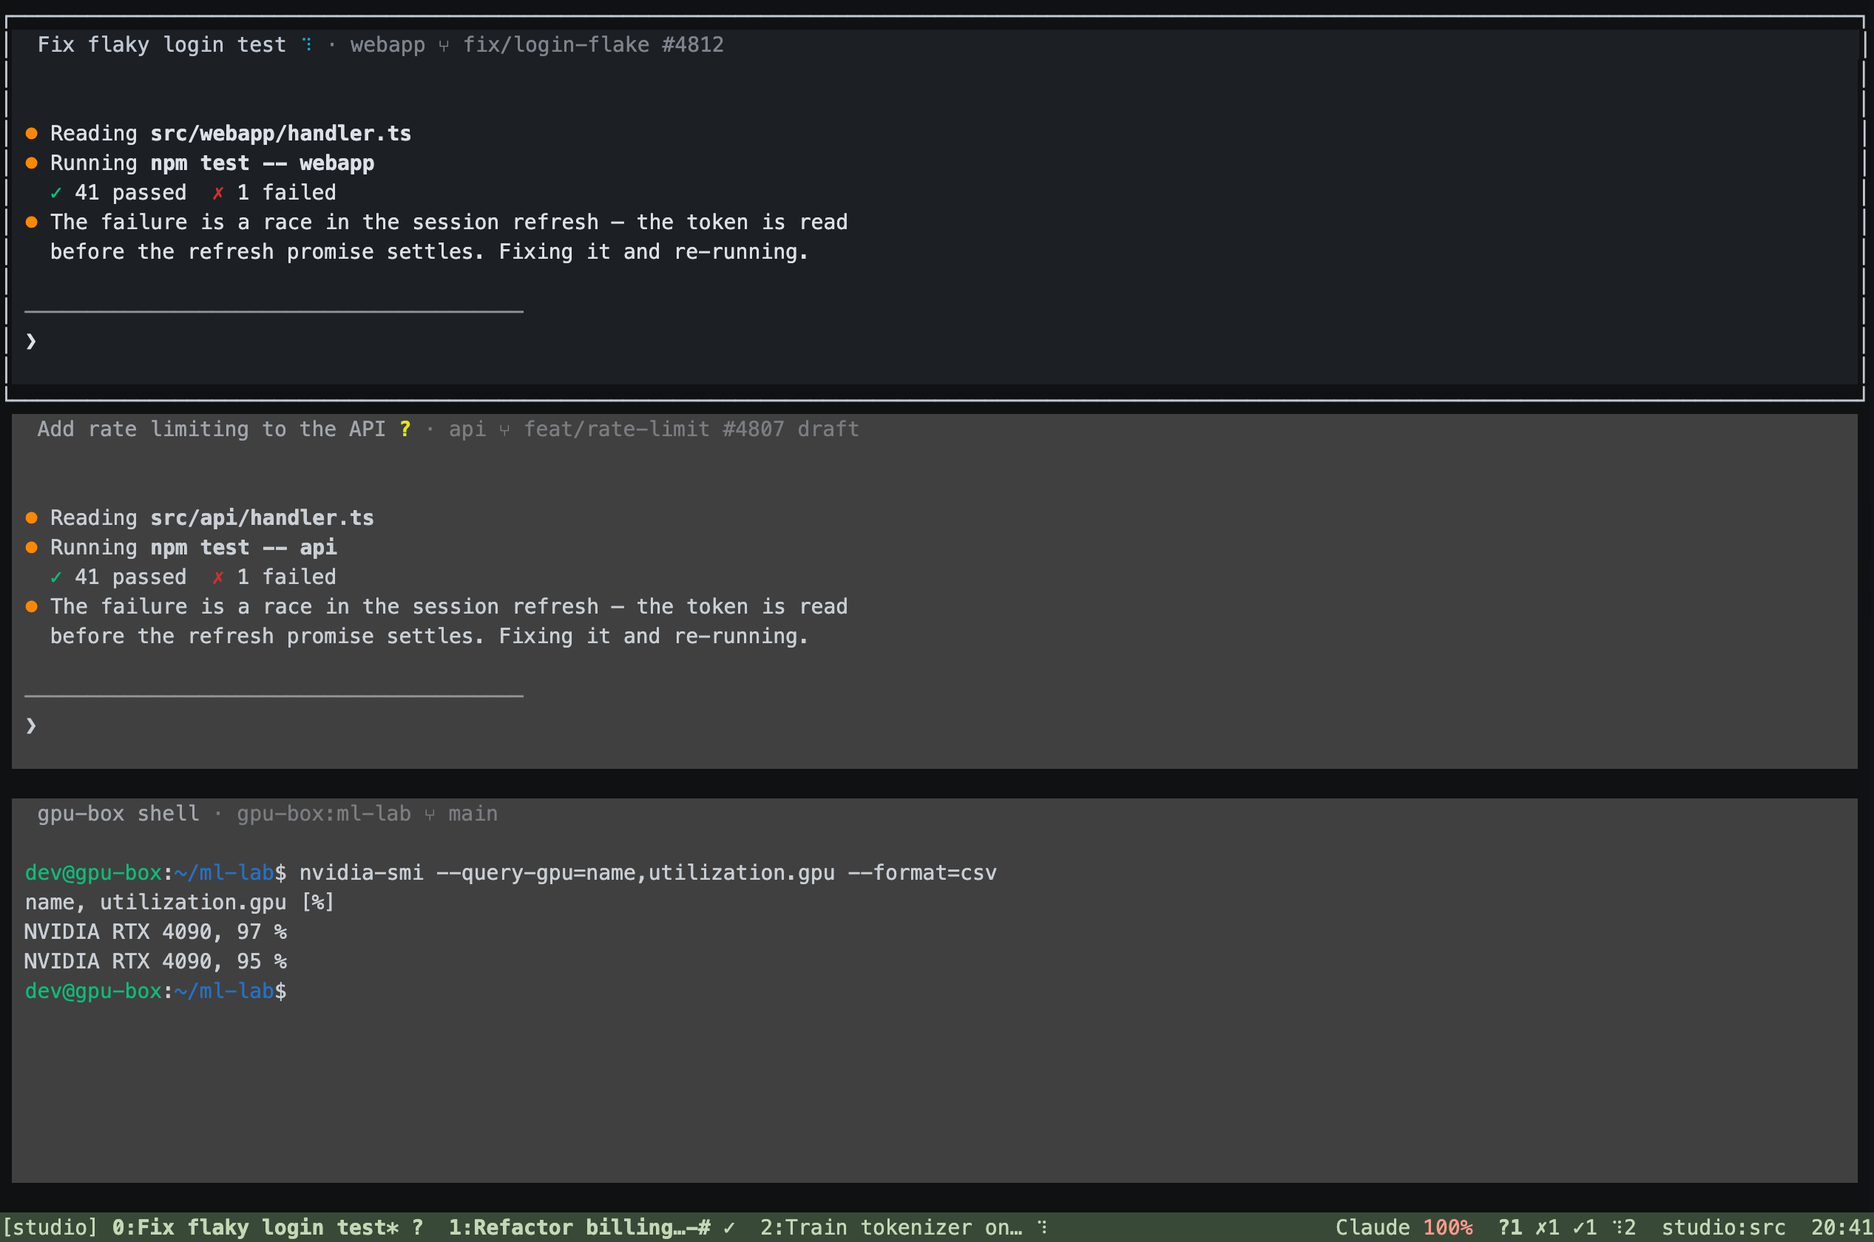
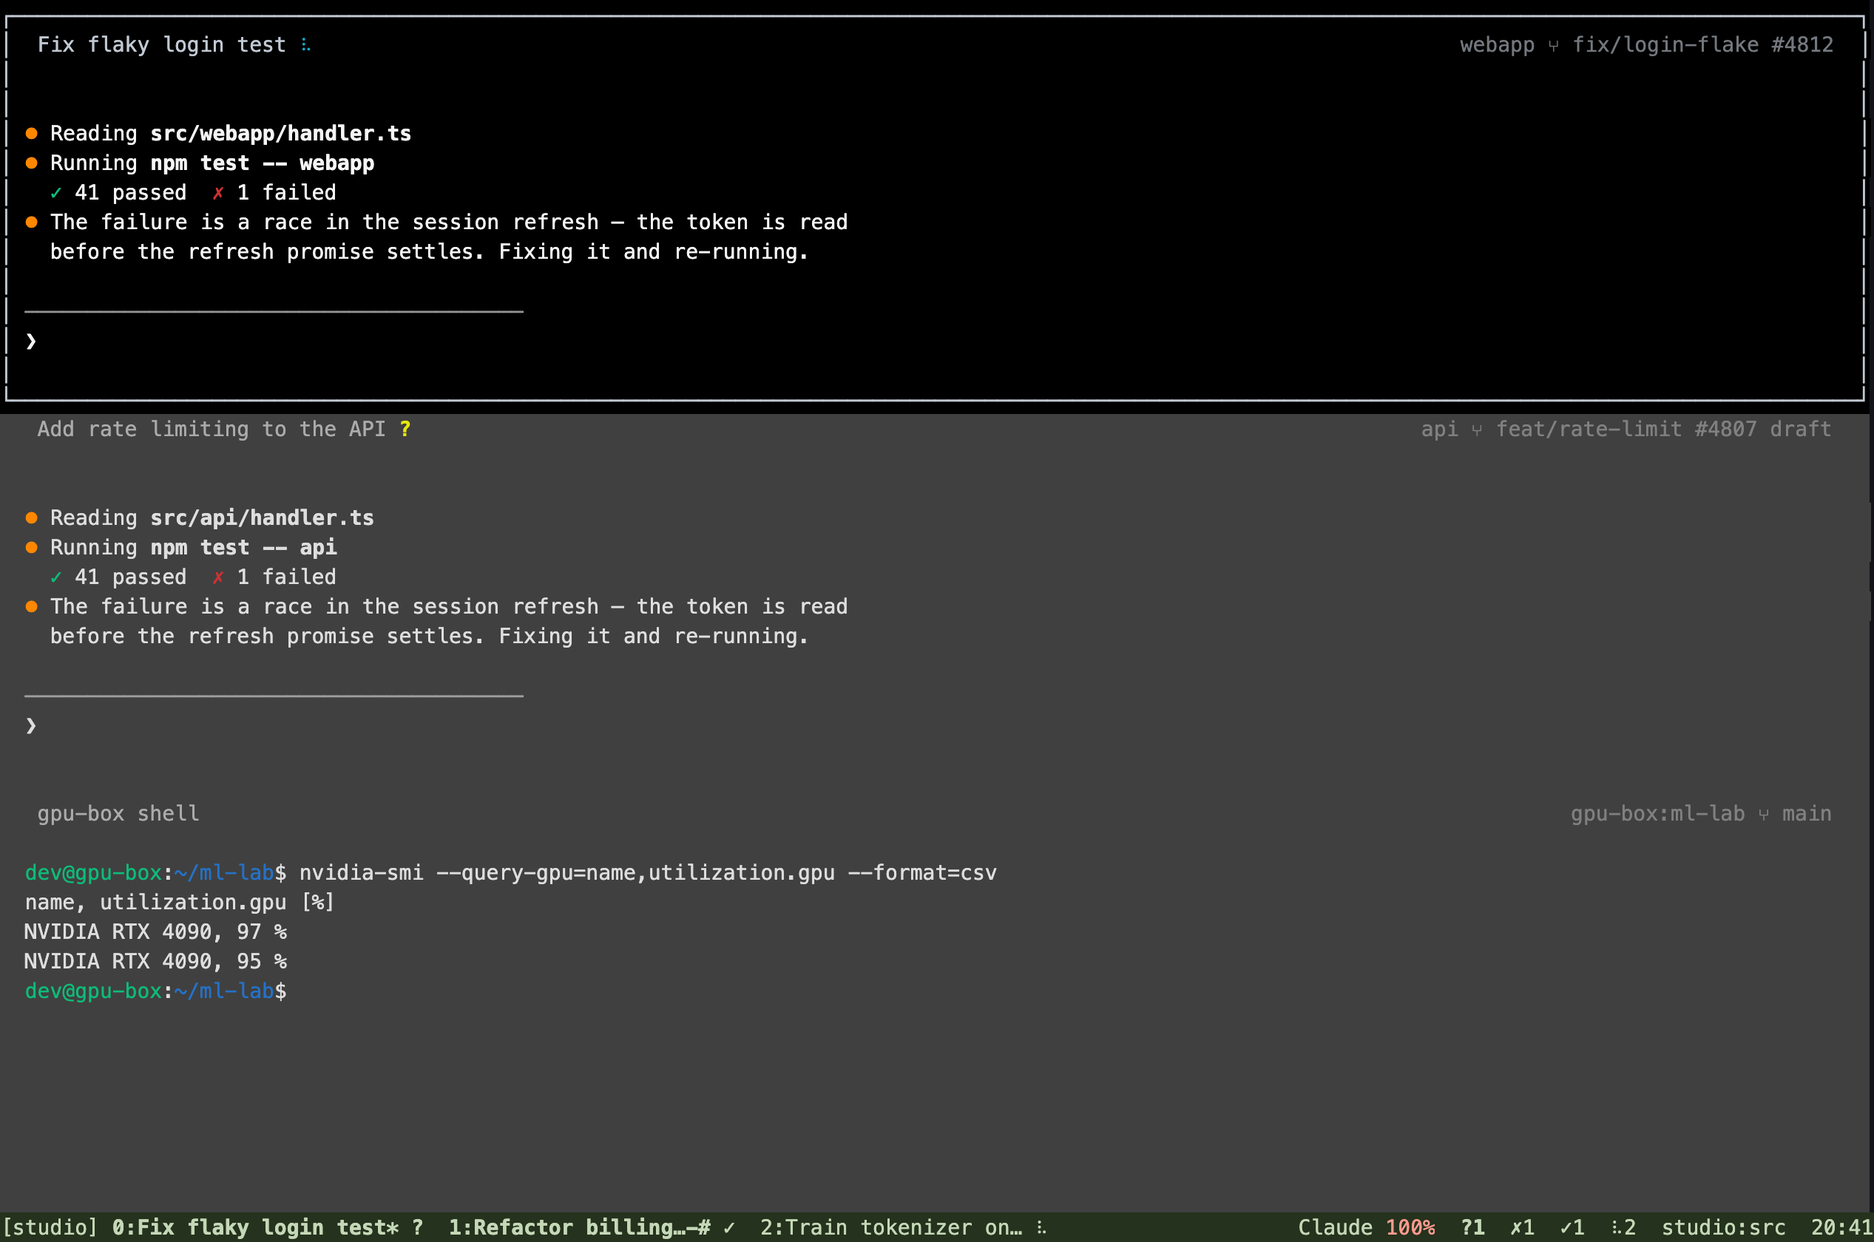
fix(hn): fill pane focus surfaces and simplify status details

diff --git a/tui/tests/pane-ui.py b/tui/tests/pane-ui.py
@@ -31,7 +31,7 @@ ENV.update(HOME=str(BASE), HN_TMPDIR=str(BASE), HN_SOCKET_NAME=PREFIX, PORT=str(
            TERM='xterm-256color', COLORTERM='truecolor', SHELL='/bin/sh', HARNESS_TUI_DESK='sync',
            HARNESS_TUI_NOTIFY='off', HN_DESKTOP='off', MOCK_DEMO='1', MOCK_RECONNECT='1', MOCK_USAGE='100')
 CONF = BASE / 'tmux.conf'
-CONF.write_text('set -g automatic-rename off\nset -g status-right "#{usage_high_mark}  #{fleet}  #{pane_machine}:#{b:pane_current_path}  20:41 "\n')
+CONF.write_text('set -g automatic-rename off\nset -g status-right "#{usage_high_mark}  #{s/ /  /:fleet}  #{pane_machine}:#{b:pane_current_path}  20:41 "\n')
 OUTPUT = Path(os.environ['HN_PANE_UI_OUTPUT']) if os.environ.get('HN_PANE_UI_OUTPUT') else None
 if OUTPUT:
     OUTPUT.mkdir(parents=True, exist_ok=True)
@@ -106,6 +106,18 @@ def background_at(x, y):
     return bg
 
 
+def background(hex_value):
+    raw = f'\x1b]11;{hex_value}\x07'.encode()
+    tmux('send-keys', '-H', '-t', 'test', *[f'{b:02x}' for b in raw])
+
+
+def pane_edge_background(pane, colour):
+    x, y, w, h = map(int, value('#{pane_left} #{pane_top} #{pane_width} #{pane_height}', pane).split())
+    points = ((x - 2, y - 3), (x + w + 1, y - 3), (x - 2, y + h + 1),
+              (x + w + 1, y + h + 1), (x - 1, y - 1), (x + w, y + h))
+    return all(background_at(col, row) == colour for col, row in points)
+
+
 def pane_background(pane):
     x, y, height = map(int, value('#{pane_left} #{pane_top} #{pane_height}', pane).split())
     return background_at(x, y + height - 2)
@@ -148,6 +160,8 @@ try:
     tmux('-f', '/dev/null', 'new-session', '-d', '-s', 'test', '-x', '150', '-y', '42', command)
     started = True
     wait(lambda: 'Fix flaky login test' in tmux('capture-pane', '-p', '-t', 'test'), 'demo panes')
+    background('#000000')
+    wait(lambda: 'bg=#000000' in hn('show', '-gwv', 'window-active-style'), 'black terminal background')
     hn('select-layout', 'even-horizontal')
     panes = hn('list-panes', '-F', '#{pane_id}').splitlines()
     assert len(panes) == 3
@@ -161,9 +175,12 @@ try:
     active_bg = hn('show', '-gwv', 'window-active-style').split('bg=')[1]
     inactive_bg = hn('show', '-gwv', 'window-style').split('bg=')[1]
     assert active_bg != inactive_bg
-    assert inactive_bg == '#404040'
+    assert active_bg == '#000000' and inactive_bg == '#404040'
     wait(lambda: pane_outline(first) and not pane_outline(second), 'thin outline only around the focused pane')
     wait(lambda: pane_background(first) == active_bg and pane_background(second) == inactive_bg, 'whole-pane focus contrast')
+    assert background_at(149, 0) == inactive_bg, 'gray backdrop includes outer padding'
+    wait(lambda: pane_edge_background(first, active_bg), 'focused background fills padding and border cells')
+    assert background_at(99, 20) == inactive_bg, 'gray backdrop includes the unfocused split gutter'
     tab = value(hn('show', '-gwv', 'window-status-current-format'))
     label = value('#{window_index}:#{window_short_name}')
     assert tab.startswith(label + '* '), (tab, label)
@@ -205,6 +222,7 @@ try:
     wait(lambda: value('#{pane_id}') == second, 'C-b Right with insets')
     wait(lambda: pane_background(second) == active_bg and pane_background(first) == inactive_bg, 'keyboard focus moves pane contrast')
     wait(lambda: pane_outline(second) and not pane_outline(first), 'keyboard focus moves the outline without stale borders')
+    wait(lambda: pane_edge_background(second, active_bg), 'focused border background follows keyboard selection')
     keys('C-b', 'Right')
     wait(lambda: value('#{pane_id}') == third, 'second C-b Right')
     keys('C-b', 'Right')
@@ -214,6 +232,11 @@ try:
     branch_context = value('#{pane_where}')
     assert '⑂ ' + value('#{pane_branch}') in branch_context, branch_context
     assert 'git:(' not in branch_context
+    wait(lambda: not pane_outline(first) and background_at(0, 0) == active_bg, 'zoomed pane has no border or gray surround')
+    assert background_at(0, 41) == normal_bg, 'status bar keeps its own color'
+    x, y, w = map(int, value('#{pane_left} #{pane_top} #{pane_width}', first).split())
+    wait(lambda: tmux('capture-pane', '-p', '-t', 'test').splitlines()[y - 2][x:x + w].rstrip().endswith(branch_context), 'branch and PR align to the right edge')
+    snapshot('panes-zoomed')
     keys('C-b', 'z')
     wait(lambda: value('#{window_zoomed_flag}') == '0', 'unzoom')
     assert value('#{window_layout}') == original
@@ -316,14 +339,12 @@ try:
     hn('set', '-g', 'status-position', 'bottom')
     hn('set', '-g', 'status', 'on')
     # OSC replies are metadata, not keystrokes. Surface defaults follow live light/dark changes.
-    def background(hex_value):
-        raw = f'\x1b]11;{hex_value}\x07'.encode()
-        tmux('send-keys', '-H', '-t', 'test', *[f'{b:02x}' for b in raw])
     layout_before_theme = value('#{window_layout}')
     before = len(api()['inputs'])
     background('#f7f7f7')
     wait(lambda: hn('show', '-gwv', 'window-active-style') == 'fg=#1a1a1a,bg=#f7f7f7', 'light surface defaults')
     wait(lambda: pane_background(first) == '#f7f7f7' and pane_background(second) == '#e5e5e5', 'light focus contrast')
+    wait(lambda: pane_edge_background(first, '#f7f7f7'), 'light surface continues through the focus border')
     light_status = hn('show', '-gv', 'status-style')
     assert value('#{window_layout}') == layout_before_theme
     snapshot('panes-light')
@@ -333,6 +354,7 @@ try:
     assert hn('show', '-gwv', 'window-style') == 'fg=red,bg=blue'
     assert hn('show', '-gwv', 'window-active-style') == 'default'
     wait(lambda: pane_background(first) == 'colour4' and pane_background(second) == 'colour4', 'custom backgrounds win on active and inactive panes')
+    wait(lambda: pane_edge_background(first, 'colour4'), 'custom pane background continues through the focus border')
     assert len(api()['inputs']) == before, 'terminal query replies reached an application'
     hn('set', '-gwu', 'window-style')
     assert hn('show', '-gwv', 'window-active-style').startswith('fg=#f5f5f5,')
@@ -350,6 +372,14 @@ try:
         wait(lambda: value('#{client_width} #{client_height}') == f'{width} {height}', 'terminal resize')
         assert value('#{window_panes}') == '3'
     print('PASS pane UI: compact and one-cell terminals, return to full size', flush=True)
+
+    single = hn('new-window', '-n', 'single', '-P', '-F', '#{pane_id}', '/bin/sh')
+    wait(lambda: value('#{pane_id}') == single and value('#{window_panes}') == '1', 'single-pane window')
+    wait(lambda: not pane_outline(single) and background_at(0, 0) == '#101010', 'single pane has no outline or gray surround')
+    snapshot('panes-single')
+    hn('kill-window')
+    wait(lambda: value('#{window_id}') == current, 'return from single-pane window')
+    print('PASS pane UI: full backdrop, right-aligned context and single-pane presentation', flush=True)
 finally:
     if started:
         if OUTPUT:

diff --git a/tui/src/options/mod.rs b/tui/src/options/mod.rs
@@ -92,17 +92,17 @@ pub fn defaults() -> &'static BTreeMap<String, String> {
         // Each pane's title row: the harness's name, then its state symbol, [watching — who
         // has it] when another window has the pane to type in, and its project and branch
         // where there is room. Git context stays here; the status bar keeps the location cue.
-        m.insert("pane-border-format".into(), " #{pane_title}#{?pane_agent_icon, #{pane_agent_mark},}#{?pane_watched, #[fg=yellow][watching#{?pane_watcher, — #{pane_watcher} has it,}]#[fg=default],}#{?pane_where, #[dim]· #{pane_where} #[nodim],}".into());
+        m.insert("pane-border-format".into(), " #{pane_title}#{?#{==:#{pane_agent_state},idle},,#{?pane_agent_icon, #{pane_agent_mark},}}#{?pane_watched, #[fg=yellow][watching#{?pane_watcher, — #{pane_watcher} has it,}]#[fg=default],}#{?pane_where,#[align=right] #[dim]#{pane_where} #[nodim],}".into());
         // Session and window navigation on the left; connection, quota, fleet, location and
         // clock on the right. A leading space keeps a full window list from running into it.
         m.insert("status-left".into(), "#{?client_prefix,#[bold],}[#{session_name}]#{?client_prefix, ›#[nobold],} ".into());
-        m.insert("status-right".into(), " #{?daemon_down,#[bold]daemon down#[nobold] ,}#{?usage_high,#{usage_high_mark} ,}#{?fleet,#{fleet} ,}#{?pane_watching,[watching] ,}#{?pane_machine,#{=/12/…:pane_machine},#{host_short}}#{?pane_current_path,:#{=/18/…:#{b:pane_current_path}},#{?pane_project,:#{=/18/…:pane_project},}} %H:%M".into());
+        m.insert("status-right".into(), "  #{?daemon_down,#[bold]daemon down#[nobold]  ,}#{?usage_high,#{usage_high_mark}  ,}#{?fleet,#{s/ /  /:fleet}  ,}#{?pane_watching,[watching]  ,}#{?pane_machine,#{=/12/…:pane_machine},#{host_short}}#{?pane_current_path,:#{=/18/…:#{b:pane_current_path}},#{?pane_project,:#{=/18/…:pane_project},}}  %H:%M".into());
         // Each window's most urgent harness at a glance (the symbol its pane titles show) and its
         // name in a few whole words (#{window_short_name}): a harness is named for its task.
         // Keep tmux's familiar current/previous markers beside the name, then any other
         // flags, then the harness state. The selected tab needs no filled badge.
         for name in ["window-status-format", "window-status-current-format"] {
-            m.insert(name.into(), "#I:#{window_short_name}#{?window_active,*,#{?window_last_flag,-,}}#{s/[*-]//:window_flags}#{?window_agent_icon, #{window_agent_icon},}".into());
+            m.insert(name.into(), "#I:#{window_short_name}#{?window_active,*,#{?window_last_flag,-,}}#{s/[*-]//:window_flags}#{?#{==:#{window_agent_state},idle},,#{?window_agent_icon, #{window_agent_icon},}}".into());
         }
         // Unread activity and bells already carry #/! markers. Keep a continuous status
         // background and emphasize text instead of introducing inverted tab badges.

diff --git a/tui/src/ui.rs b/tui/src/ui.rs
@@ -251,7 +251,9 @@ fn window(buf: &mut Buffer, app: &mut App, body: Rect) -> Option<Position> {
         let window = if active { (a.fg.or(w.fg), a.bg.or(w.bg)) } else { (w.fg, w.bg) };
         if surfaces {
             let f = crate::pane_frame::frame(*rect, app.window_area(app.tab()), app.pane_status(app.tab()));
-            buf.set_style(f.surface, Style::default().fg(window.0.unwrap_or(Color::Reset)).bg(window.1.unwrap_or(Color::Reset)));
+            // A lone or zoomed pane needs no focus treatment, including in its outer space.
+            let surface = if rects.len() == 1 { body } else { f.surface };
+            buf.set_style(surface, Style::default().fg(window.0.unwrap_or(Color::Reset)).bg(window.1.unwrap_or(Color::Reset)));
         }
         // choose-tree's tree, over the pane.
         if app.panes.get(id).map(|p| p.tree_top()).unwrap_or(false) {
@@ -287,10 +289,14 @@ fn pane_chrome(buf: &mut Buffer, app: &App) {
         let f = crate::pane_frame::frame(*rect, canvas, app.pane_status(app.tab()));
         let active = Some(*id) == app.focused();
         let style = app.style_of(if active { "pane-active-border-style" } else { "pane-border-style" }, app.active, Some(*id));
-        if let Some(outline) = f.outline.filter(|_| active) {
+        if let Some(outline) = f.outline.filter(|_| active && app.rects.len() > 1) {
             let lines = app.options.get("pane-border-lines", &app.tab().id, Some(*id)).unwrap_or_default();
             let (tl, tr, bl, br, hz, vt, _, _) = box_set(&lines);
-            let border = style.bg(theme::pane_palette().canvas);
+            // The thin outline is drawn over the pane's own background, so the canvas
+            // cannot leave a gray band between the content and the border glyphs.
+            let a = app.style_of("window-active-style", app.active, Some(*id));
+            let w = app.style_of("window-style", app.active, Some(*id));
+            let border = style.bg(a.bg.or(w.bg).unwrap_or(Color::Reset));
             let put = |buf: &mut Buffer, x, y, glyph| {
                 if let Some(cell) = buf.cell_mut((x, y)) { cell.set_symbol(glyph).set_style(border); }
             };

diff --git a/tui/src/theme.rs b/tui/src/theme.rs
@@ -447,10 +447,12 @@ fn pane_palette_for(native: Option<(Color, Color)>) -> PanePalette {
         Color::Rgb(c(ar, br), c(ag, bg), c(ab, bb))
     };
     let green = if light { Color::Rgb(58, 102, 48) } else { Color::Rgb(133, 181, 105) };
+    let inactive_surface = if light { mix(bg, foreground, 8) } else { Color::Rgb(64, 64, 64) };
     PanePalette {
-        canvas: if light { mix(bg, foreground, 14) } else { mix(bg, Color::Rgb(0, 0, 0), 45) },
+        // Inactive panes, gutters and outer space form one continuous backdrop.
+        canvas: inactive_surface,
         surface: bg,
-        inactive_surface: if light { mix(bg, foreground, 8) } else { Color::Rgb(64, 64, 64) },
+        inactive_surface,
         foreground, inactive_foreground: mix(foreground, bg, 9),
         muted: mix(foreground, bg, 30),
         header: if light { mix(bg, foreground, 12) } else { Color::Rgb(64, 64, 64) },
@@ -1273,7 +1275,7 @@ mod palette_tests {
                          (Color::Rgb(247, 247, 247), Color::Rgb(26, 26, 26))] {
             let p = super::pane_palette_for(Some((bg, fg)));
             assert_ne!(p.surface, p.inactive_surface);
-            assert_ne!(p.inactive_surface, p.canvas);
+            assert_eq!(p.inactive_surface, p.canvas);
             assert_eq!(p.surface, bg);
             assert_ne!(p.header, p.active_header);
             assert_eq!(p.foreground, fg);

diff --git a/docs/research/2026-09-29-hn-pane-ui.md b/docs/research/2026-09-29-hn-pane-ui.md
@@ -3,10 +3,11 @@
 hn now presents terminal panes as quiet surfaces with space between them. Each pane has
 an integrated title, a thin outline around the focused pane, and inset content. The status line stays
 at the bottom in muted green, with tabs ordered `number:name* status`. Pane headers put the
-name before the state too: `hn ⋮ · project ⑂ branch`. Quota text is compact: `Claude 100%`,
-with amber or red only on the percentage. The branch appears only in pane headers; the
-bottom right keeps the familiar `machine:folder` location cue. Working and waiting
-indicators remain visible. Attention markers, prefix cues, inbox rows, connection notices, preview counters
+name before the state too: `hn ⋮` on the left, with `project ⑂ branch #123` aligned to the
+right. Quota text is compact: `Claude 100%`, with amber or red only on the percentage. The branch appears only in pane headers; the
+bottom right keeps the familiar `machine:folder` location cue. Status-bar groups have two spaces
+between them. Working and waiting indicators remain visible; idle dots are hidden in tabs and
+pane headers. Attention markers, prefix cues, inbox rows, connection notices, preview counters
 and marked tree rows use text, symbols and emphasis instead of inverted badges. Cursor and
 selection highlights, explicit user styles and program ANSI remain supported. Unread and bell
 tabs keep their status symbols with bold text. The status bar has a continuous background;
@@ -38,11 +39,15 @@ At normal sizes there is a one-cell gap around the pane surfaces and between adj
 one column of content padding on each side, and vertical padding where space permits. Small
 panes automatically give these cells back to the program. A one-cell terminal remains responsive
 and survives resizing.
-The focused pane keeps the terminal's native background and full text contrast. Other panes
+The focused pane keeps the terminal's native background and full text contrast, including
+padding and the cells behind its thin border. A black terminal stays black right to the outline. Other panes
 use `rgb(64, 64, 64)` surfaces in dark terminals, with softer text so focus reads across the
-whole pane. Light terminals retain their light surface counterpart. The focused pane has a thin
+whole pane. The backdrop also fills outer padding and gaps, stopping at the status bar.
+Light terminals retain their light surface counterpart. A lone or zoomed pane uses its own
+background throughout, without a focus outline. In a split layout, the focused pane has a thin
 outline in the existing gutter cells, which follows keyboard or mouse focus without shrinking
-program content or changing its mouse coordinates. Compact panes keep their usable cells. Surface colors follow the terminal's native light/dark theme and update when it changes. The
+program content or changing its mouse coordinates. Compact panes keep their usable cells.
+Surface colors follow the terminal's native light/dark theme and update when it changes. The
 daemon receives the surface colors so its programs agree with their surrounding padding.
 Program ANSI foregrounds, backgrounds and attributes remain intact; only default colors inherit
 the pane surface palette. Explicit user styles and title formats still override the defaults.
@@ -61,7 +66,8 @@ exercises the running application with actual keys and SGR mouse input:
 - All seven layouts and eight position targets with top, bottom and disabled pane titles.
 - Identical split structure across appearances, including percentage splits on both axes.
 - Application mouse coordinates after padding and after adding two status rows at the top.
-- Whole-pane focus contrast through keyboard and mouse selection, and name-before-status tabs.
+- Whole-pane focus contrast through keyboard and mouse selection, including gutters and outer padding.
+- Borderless single and zoomed panes, right-aligned branch context, and hidden idle indicators.
 - Live light/dark theme changes, custom style overrides in active and inactive panes, and reported option defaults.
 - Explicit program foreground/background colors; 80x24, 24x8, 6x4 and 1x1 terminals.
 

diff --git a/tui/README.md b/tui/README.md
@@ -72,8 +72,11 @@ Splits, `resize-pane`, the seven layouts, `swap-pane`, `rotate-window`, `join-pa
 and `select-pane` are tmux 3.5a's own arithmetic (layout.c, window.c): the same split sizes, the same
 pane numbers and the same active pane after each. hn draws these layouts as pane surfaces
 with one-cell gaps, inset terminal content and a thin outline around the focused pane. The
-surfaces follow the terminal's light/dark theme: the focused pane keeps full contrast;
-inactive dark panes use `rgb(64, 64, 64)` with softer text. Light terminals keep a light counterpart.
+surfaces follow the terminal's light/dark theme: the focused pane keeps full contrast and
+its background extends through the padding to the thin border;
+inactive dark panes use `rgb(64, 64, 64)` with softer text. This backdrop fills the padding
+and gaps up to the status bar. A lone or zoomed pane has no focus outline or gray surround.
+Light terminals keep a light counterpart.
 Explicit program colors and user styles stay intact. The muted green status bar has a continuous
 background, with tabs ordered `number:name* status` (previous window: `number:name- status`).
 Quota warnings read `Claude 100%`, with amber or red only on the percentage. Padding
@@ -86,9 +89,11 @@ its project and branch where the pane has room), `allow-set-title off` (a pane's
 harness's name, not what the program sets), `history-limit 10000` (agents print a lot; tmux keeps
 2000), `mouse on`, `set-titles on` (the terminal's title: `?2 Fix flaky login test — Harness`, the
 harnesses waiting on you and the one in front; `set-titles-string` changes it), and the status line:
-each window's most urgent harness state follows its name and tmux marker. Connection, quota,
+each window's most urgent harness state follows its name and tmux marker; idle dots are hidden
+in tabs and pane headers. Connection, quota,
 fleet counts, `machine:folder` and clock sit on the right. The git branch stays in its pane
-header, written `⑂ branch` without redundant punctuation.
+header, aligned to the right with its PR and written `⑂ branch` without redundant punctuation.
+Status-bar groups are separated by two spaces.
 One key differs on purpose: ⇧⏎
 reaches the pane as `CSI 13;2u` (a new line in an agent's prompt; tmux, without `extended-keys`,
 sends a plain Enter).
